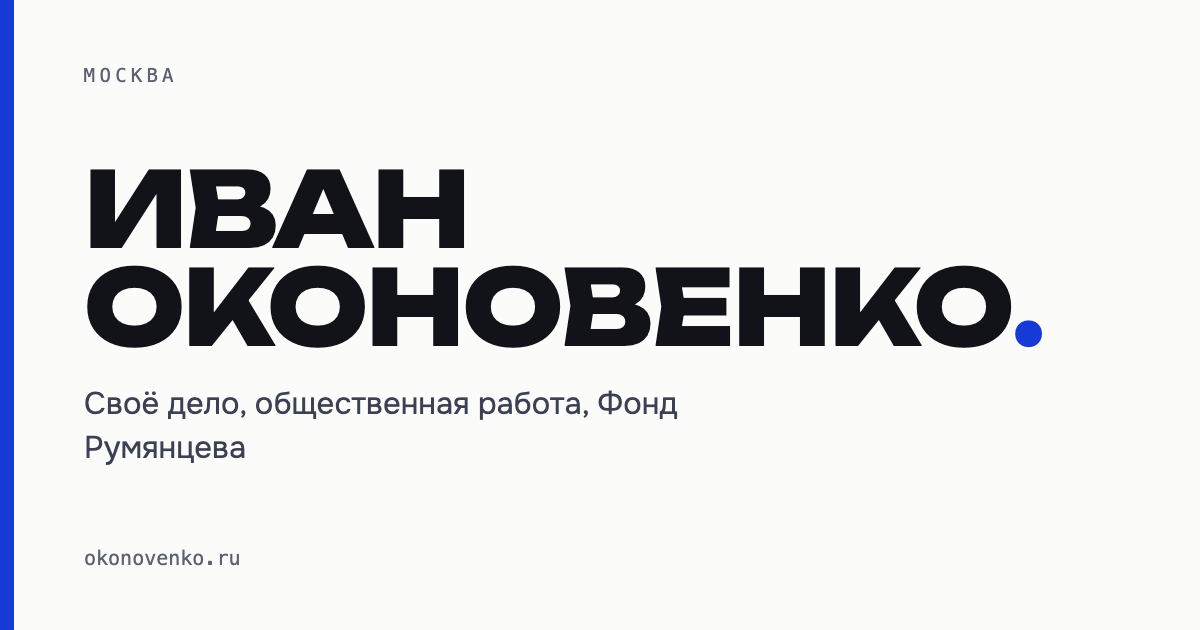
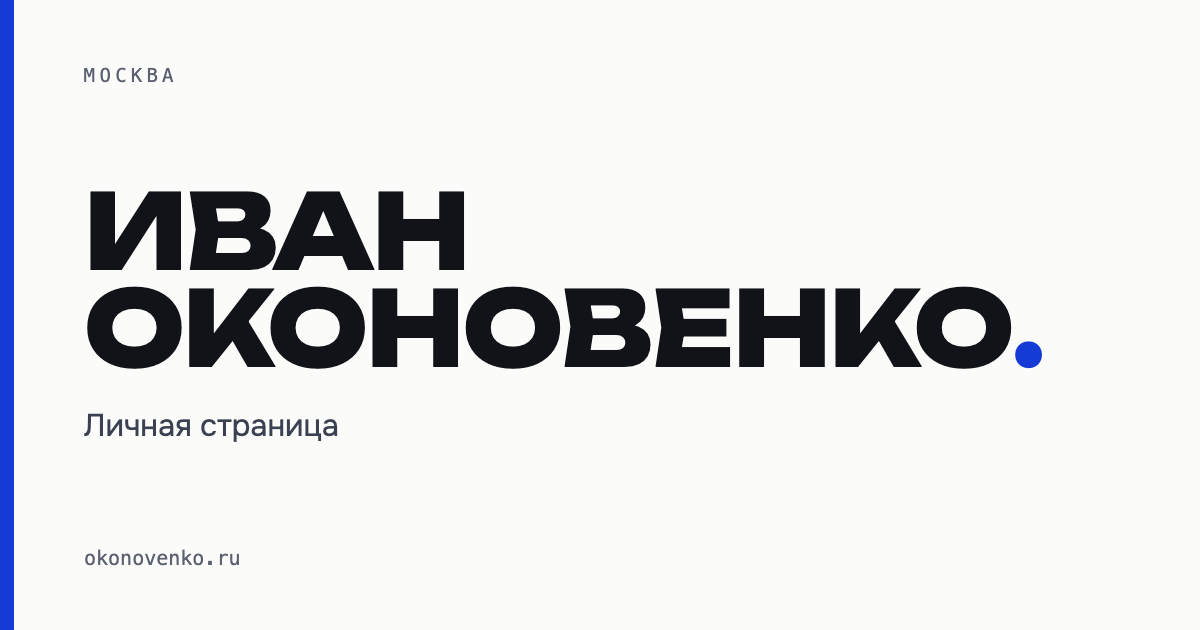
Временная заглушка с SEO, без внешних привязок

Changed region(s): [[0.0617, 0.2714, 0.8942, 0.7238]]

diff --git a/index.html b/index.html
@@ -3,124 +3,75 @@
 <head>
 <meta charset="utf-8">
 <meta name="viewport" content="width=device-width, initial-scale=1">
-<title>Иван Оконовенко</title>
-<meta name="description" content="Иван Оконовенко. Москва. Кофейные сети, Фонд Румянцева, экономика российского села.">
+<title>Иван Оконовенко — личная страница</title>
+<meta name="description" content="Иван Оконовенко, Москва — личная страница. Предприниматель. Связаться: ivan@okonovenko.ru">
+<link rel="canonical" href="https://okonovenko.ru/">
+<meta name="robots" content="index, follow, max-image-preview:large">
 <meta property="og:type" content="profile">
 <meta property="og:title" content="Иван Оконовенко">
-<meta property="og:description" content="Своё дело, общественная работа, Фонд Румянцева. Москва.">
+<meta property="og:description" content="Личная страница. Москва.">
 <meta property="og:url" content="https://okonovenko.ru/">
 <meta property="og:image" content="https://okonovenko.ru/og.png">
 <meta property="og:image:width" content="1200">
 <meta property="og:image:height" content="630">
 <meta property="og:locale" content="ru_RU">
 <meta name="twitter:card" content="summary_large_image">
-<link rel="stylesheet" href="fonts.css">
 <link rel="icon" href="favicon.svg" type="image/svg+xml">
+<link rel="stylesheet" href="fonts.css">
 <style>
-  :root{
-    --ink:#111318; --muted:#5b6170; --accent:#153ad6; --mark:#dbe4ff;
-    --paper:#fbfbfa; --line:#e4e4e0; --deep:#0f1830;
-  }
+  :root{ --ink:#111318; --muted:#5b6170; --accent:#153ad6; --paper:#fbfbfa; --line:#e4e4e0 }
   *{box-sizing:border-box}
   html{-webkit-text-size-adjust:100%}
   body{
     margin:0; background:var(--paper); color:var(--ink);
     font-family:"Onest",system-ui,-apple-system,"Segoe UI",Roboto,sans-serif;
-    font-size:17px; line-height:1.62; padding:26px 22px 40px;
+    font-size:17px; line-height:1.6; min-height:100vh;
+    display:flex; flex-direction:column; padding:28px 22px 32px;
   }
-  .wrap{max-width:780px; margin:0 auto}
   .top{font-family:ui-monospace,SFMono-Regular,Menlo,Consolas,monospace;
        font-size:12px; letter-spacing:.18em; text-transform:uppercase; color:var(--muted)}
+  main{flex:1; display:flex; flex-direction:column; justify-content:center; padding:48px 0}
   h1{font-family:"Unbounded",system-ui,sans-serif; font-weight:800; text-transform:uppercase;
-     font-size:clamp(36px,10.5vw,88px); line-height:.94; letter-spacing:-.02em; margin:32px 0 22px}
+     font-size:clamp(38px,11.5vw,104px); line-height:.95; letter-spacing:-.02em; margin:0 0 26px}
   h1 .dot{color:var(--accent)}
-  .role{font-size:clamp(18px,2.4vw,21px); max-width:30em; margin:0 0 34px}
-  h2{font-family:"Unbounded",system-ui,sans-serif; font-weight:500; font-size:clamp(19px,2.5vw,23px);
-     margin:40px 0 14px; letter-spacing:-.01em}
-  p{margin:0 0 16px; max-width:36em}
-  em{font-style:italic}
-  mark{background:var(--mark); color:inherit; padding:.06em .18em; border-radius:2px}
+  p{max-width:34em; margin:0 0 16px}
+  p.lead{font-size:clamp(18px,2.4vw,21px)}
+  .muted{color:var(--muted)}
   a{color:var(--accent); text-decoration:none; border-bottom:1px solid rgba(21,58,214,.35)}
   a:hover,a:focus{border-bottom-color:var(--accent)}
   a:focus-visible{outline:2px solid var(--accent); outline-offset:3px; border-radius:2px}
-  .rod{background:var(--deep); color:#f4f5f8; border-radius:10px; padding:24px 22px; margin:34px 0 0}
-  .rod h2{margin-top:0; color:#fff}
-  .rod p{color:#d5d8e2}
-  .rod a{color:#a9bcff; border-bottom-color:rgba(169,188,255,.4)}
-  .rod .line{font-family:ui-monospace,SFMono-Regular,Menlo,Consolas,monospace; font-size:13px;
-             color:#98a0b8; margin:0; line-height:1.9}
-  .cards{margin:14px 0 0; padding:0; list-style:none; border-top:1px solid var(--line)}
-  .cards li{border-bottom:1px solid var(--line); padding:16px 0}
-  .cards .what{font-family:"Unbounded",system-ui,sans-serif; font-weight:500; font-size:16px; display:block; margin-bottom:4px}
-  .cards .why{color:var(--muted)}
-  footer{margin-top:40px; padding-top:18px; border-top:1px solid var(--line);
-         display:flex; flex-wrap:wrap; gap:8px 24px; justify-content:space-between;
-         font-family:ui-monospace,SFMono-Regular,Menlo,Consolas,monospace; font-size:13px; color:var(--muted)}
-  @media (min-width:760px){ body{padding:44px 40px 52px} .rod{padding:30px 28px} }
-  @media print{
-    body{background:#fff; padding:0; font-size:11pt}
-    a{border:0; color:#000} h1{font-size:32pt}
-    .rod{background:#fff; color:#000; border:1pt solid #999}
-    .rod p,.rod .line{color:#000} @page{margin:16mm}
-  }
+  footer{border-top:1px solid var(--line); padding-top:18px;
+    display:flex; flex-wrap:wrap; gap:6px 24px; justify-content:space-between;
+    font-family:ui-monospace,SFMono-Regular,Menlo,Consolas,monospace; font-size:13px; color:var(--muted)}
+  @media (min-width:760px){ body{padding:40px 56px 44px} main{padding:64px 0} }
+  @media print{ body{background:#fff;padding:0} a{border:0;color:#000} }
 </style>
 </head>
 <body>
-<div class="wrap">
+  <div class="top">Москва</div>
 
-  <div class="top">Москва · okonovenko.ru</div>
-
-  <h1>Иван<br>Оконовенко<span class="dot">.</span></h1>
-
-  <p class="role">Руководитель развития сети кофеен «Коферусс». Сооснователь Фонда Румянцева. Из семьи, которая полтора века держалась за свою землю.</p>
-
-  <h2>Григорий и Иван</h2>
-  <p>В нашей мужской линии из поколения в поколение чередуются два имени: Григорий, Иван, снова Григорий, снова Иван. Прадед Григорий прошёл две мировые войны. Дед Иван — артиллерист, воевал с Японией. Отец Григорий — <mark>заслуженный работник сельского хозяйства</mark>. Я — Иван.</p>
-  <p>Род пришёл из казацкого Стародубья в Саратовское Поволжье и осел в Калининском районе: переселенцы, которые начинали с нуля на чужом месте и за век сделали его своим. Я родился в <mark>Саратове</mark>, вырос в Калининске, а в 2019 году уехал в Москву — и, как мне кажется, занимаюсь ровно тем же, чем занимались они. Хозяйство просто другое.</p>
-
-  <div class="rod">
-    <h2>История семьи</h2>
-    <p>Род собран по архивам: откуда пошла фамилия, как семья двигалась с запада на восток, что стало с ней в двадцатом веке.</p>
-    <p class="line">Стародубье · Крутая Буда<br>→ Саратовское Поволжье · Калининск<br>→ Оконовенко · Сорокотяга · Кривцановы</p>
-  </div>
-
-  <h2>Своё дело</h2>
-  <p>Я открыл кофейню <mark>на свои</mark>. Сам искал помещение, торговался за аренду, считал экономику до рубля, нанимал людей и вставал за стойку, когда некому было выйти в смену. Без инвестора за спиной — только собственные деньги и собственный расчёт.</p>
-  <p>Эта кофейня сейчас стоит. В здании затеяли большую стройку — открывают фитнес-клуб: пыль, демонтаж, поток упал, и летом я точку заморозил. Проще всего было закрыть её и списать в убыток. Я не закрыл: стройка кончается, клуб откроется, люди вернутся — и точка снова заработает. <mark>Дело — это не только запуск, но и умение переждать плохой год, не бросив начатое.</mark></p>
-
-  <p>Так узнаёшь то, чего не узнать из отчётов: хозяин малого дела живёт без лоббиста и без подушки на плохой месяц, и зарплату людям платит раньше, чем себе. Таких в России сотни тысяч. Страна держится на них не меньше, чем на больших компаниях, — только говорят о них куда реже.</p>
-  <p>Сейчас я <mark>руководитель развития сети «Коферусс»</mark>: локации, партнёры, франшиза. По сути — помогаю людям открыть своё и не разориться на первом шаге, потому что этот шаг сам прошёл на своих деньгах. <a href="https://invest.coffeeruss.ru/ivan/">Подробно о кофейной части</a>.</p>
-
-  <h2>Русское предпринимательство — это не только большие имена</h2>
-  <p>Я организовал конференцию <mark>«Русский бизнес»</mark>. Не форум с президиумом: потомок купеческой династии Абрикосовых рассказывал о роли промышленников и купцов в Российской империи через историю собственной семьи, председатель производственного кооператива — о том, чем русская кооперация похожа на баскский Мондрагон, а дальше была прямая дискуссия предпринимателей о том, как на самом деле живёт малый бизнес в сегодняшней России.</p>
-  <p>Мне важно, чтобы у людей, которые тянут своё дело, была среда: не выставка успеха, а место, где говорят честно и помогают друг другу.</p>
-
-  <h2>Россия начинается в школе</h2>
-  <p>Вместе с товарищами я основал <mark>Фонд Румянцева</mark> — независимую НКО, которая поддерживает изменения в гуманитарном образовании и проекты исторического просвещения. Мы сделали премию <mark>«Учитель истории»</mark>: находим и показываем стране тех, кто преподаёт историю так, что из детей вырастают граждане — думающие, знающие своё прошлое, готовые отвечать не только за себя.</p>
-  <p>За два сезона в конкурсе поучаствовал <mark>каждый двадцатый учитель истории страны</mark> — больше трёх тысяч человек.</p>
-  <p>На мне в фонде не только замыслы, но и работа, которую никто не видит: я провёл фонд через получение статуса социально ориентированной НКО — документы, соответствие требованиям, реестр. Скучная часть, без которой благотворительность остаётся разговорами. <a href="https://fondrumyantseva.ru/">fondrumyantseva.ru</a></p>
-  <p>Состою в движении <mark>«Общество.Будущее»</mark>: гуманитарное направление, мероприятия, внутренняя работа. Фонд, кстати, вырос оттуда же — там я познакомился с людьми, с которыми мы его и сделали.</p>
-
-  <h2>Написать</h2>
-  <p>Если у вас своё дело, общее дело или предложение — пишите напрямую: <a href="mailto:ivan@okonovenko.ru">ivan@okonovenko.ru</a>. Читаю сам, отвечаю сам.</p>
+  <main>
+    <h1>Иван<br>Оконовенко<span class="dot">.</span></h1>
+    <p class="lead">Личная страница. Сейчас она готовится — скоро здесь будет о том, чем я занимаюсь.</p>
+    <p class="muted">Пока самый быстрый способ связаться — почта. Читаю и отвечаю сам.</p>
+  </main>
 
   <footer>
+    <span><a href="mailto:ivan@okonovenko.ru">ivan@okonovenko.ru</a></span>
     <span>okonovenko.ru</span>
-    <span>Москва</span>
   </footer>
-
-</div>
 
 <script type="application/ld+json">
 {
   "@context": "https://schema.org",
   "@type": "Person",
   "name": "Иван Оконовенко",
+  "alternateName": ["Оконовенко Иван", "Ivan Okonovenko"],
   "url": "https://okonovenko.ru/",
   "email": "mailto:ivan@okonovenko.ru",
-  "birthPlace": {"@type": "Place", "name": "Саратов"},
+  "jobTitle": "Предприниматель",
   "address": {"@type": "PostalAddress", "addressLocality": "Москва", "addressCountry": "RU"},
-  "sameAs": ["https://invest.coffeeruss.ru/ivan/"]
+  "mainEntityOfPage": {"@type": "WebPage", "@id": "https://okonovenko.ru/"}
 }
 </script>
 </body>
